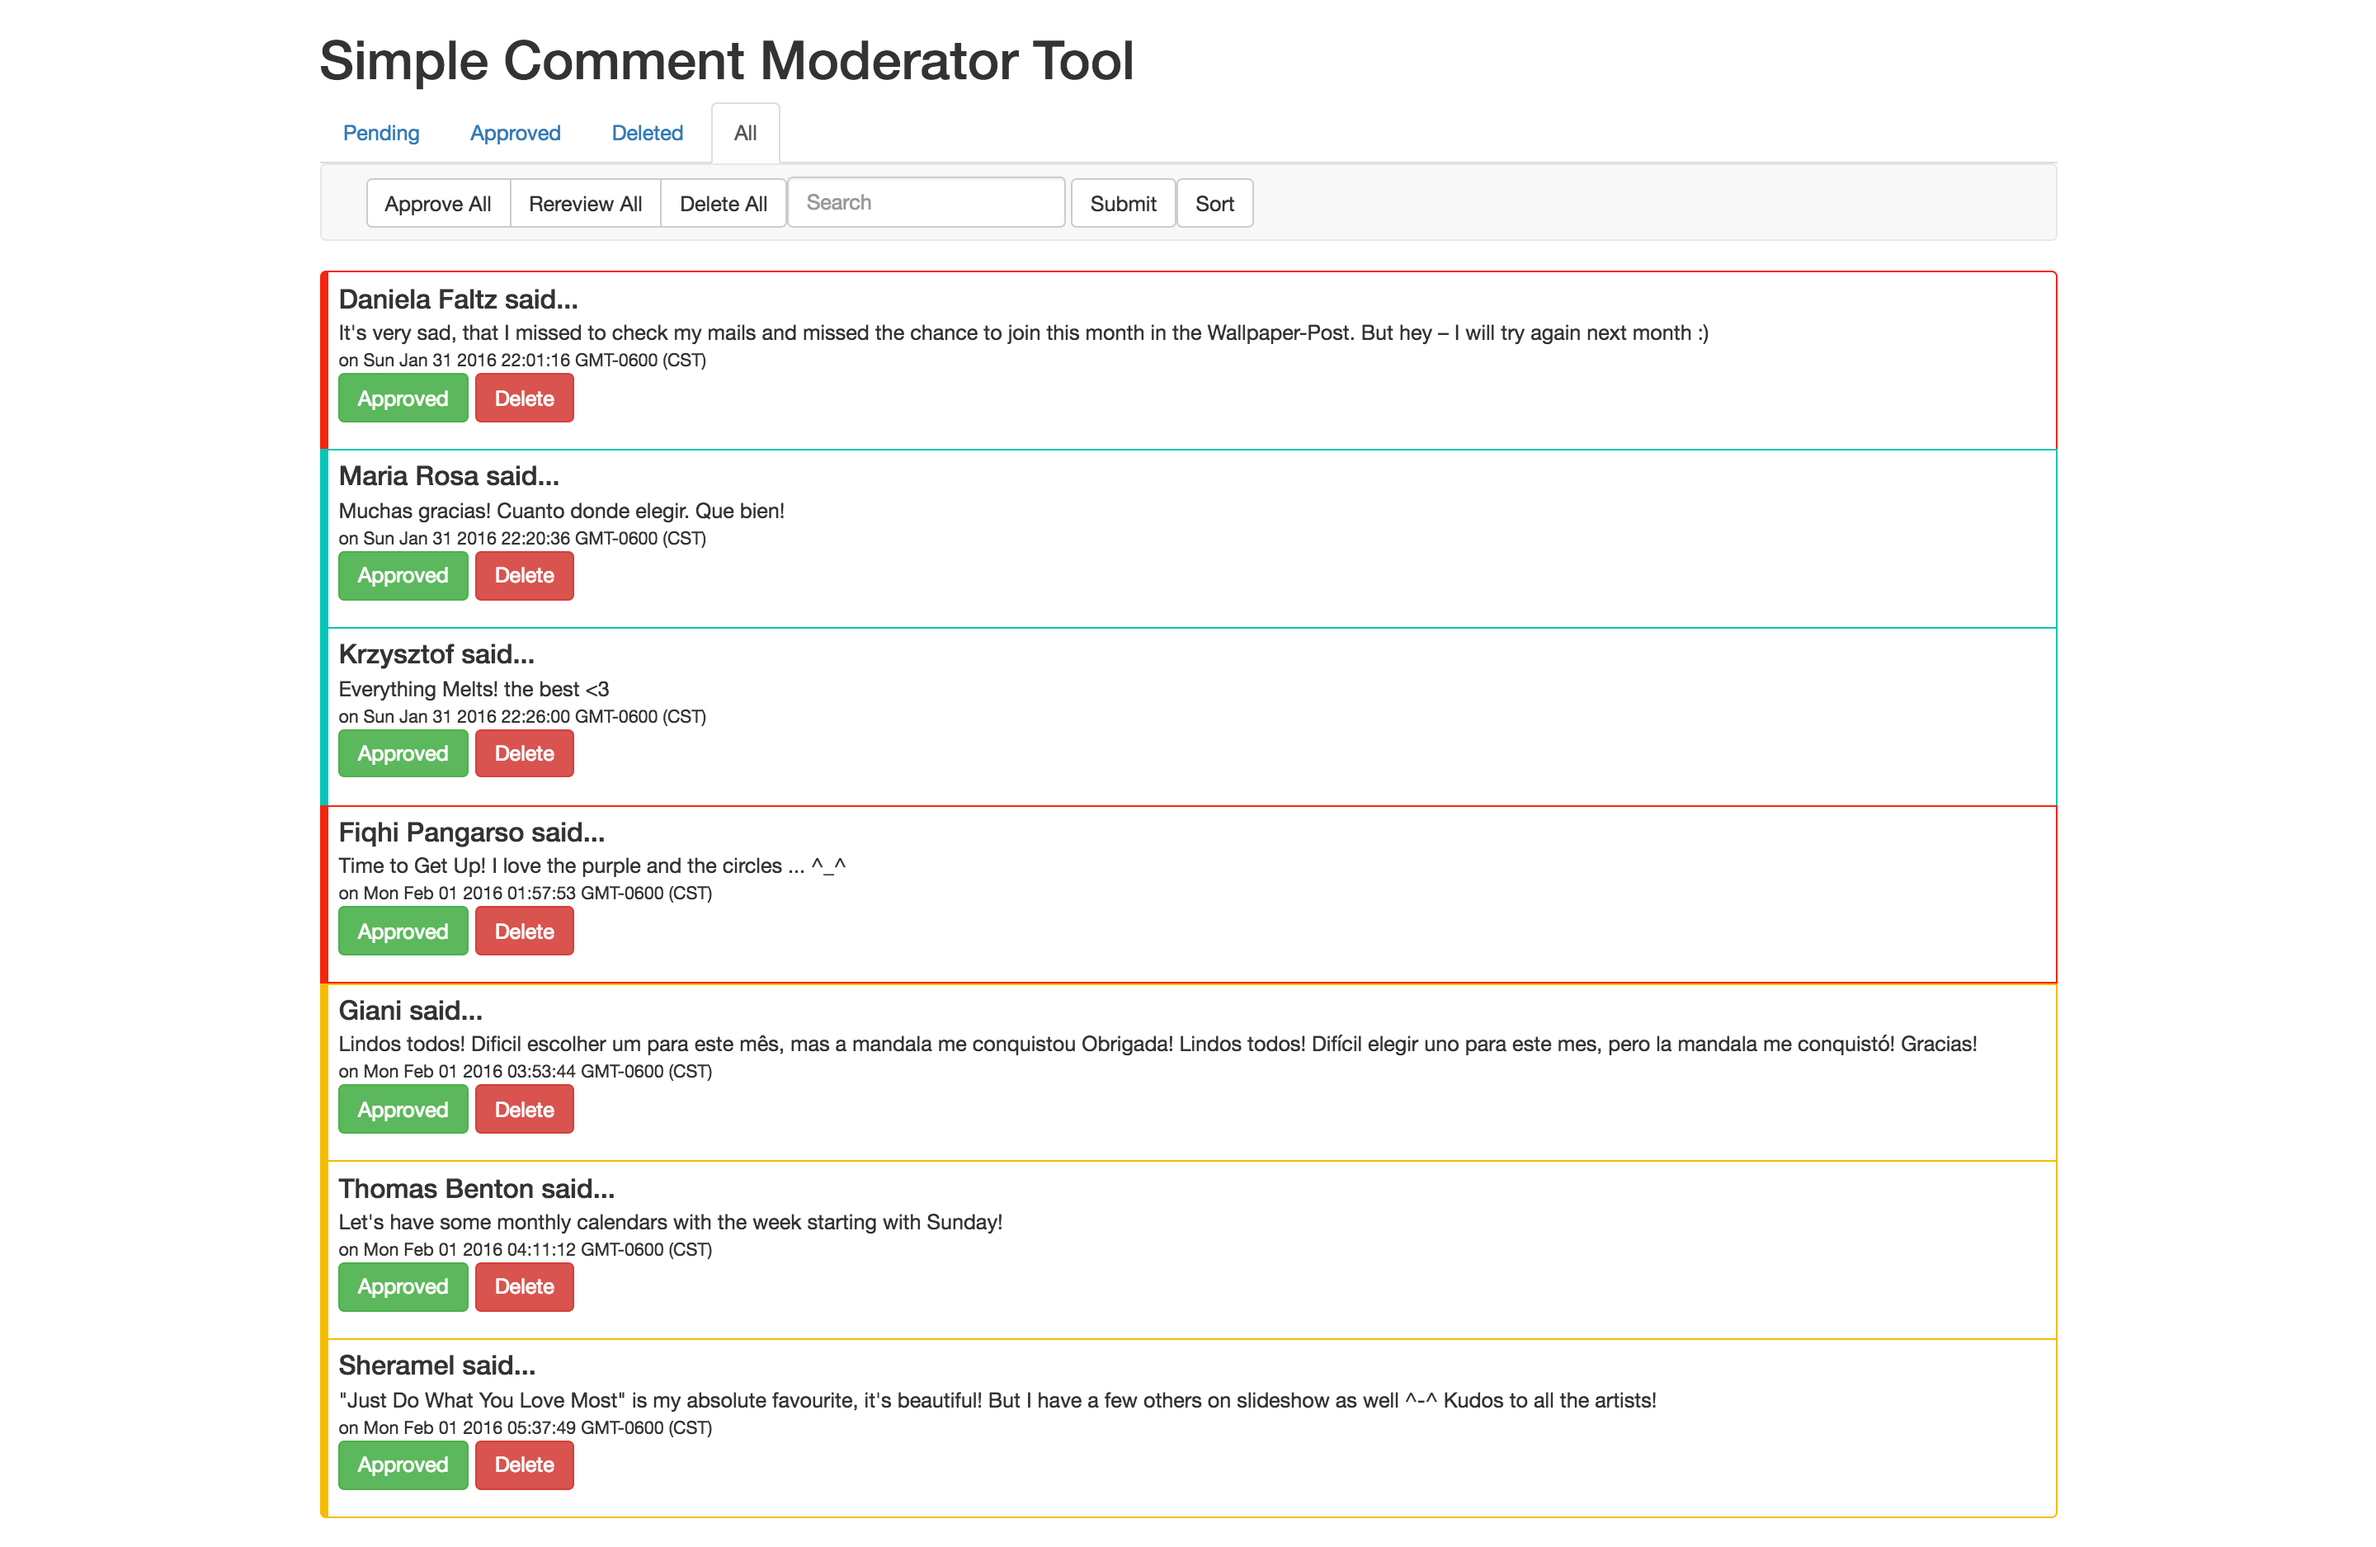
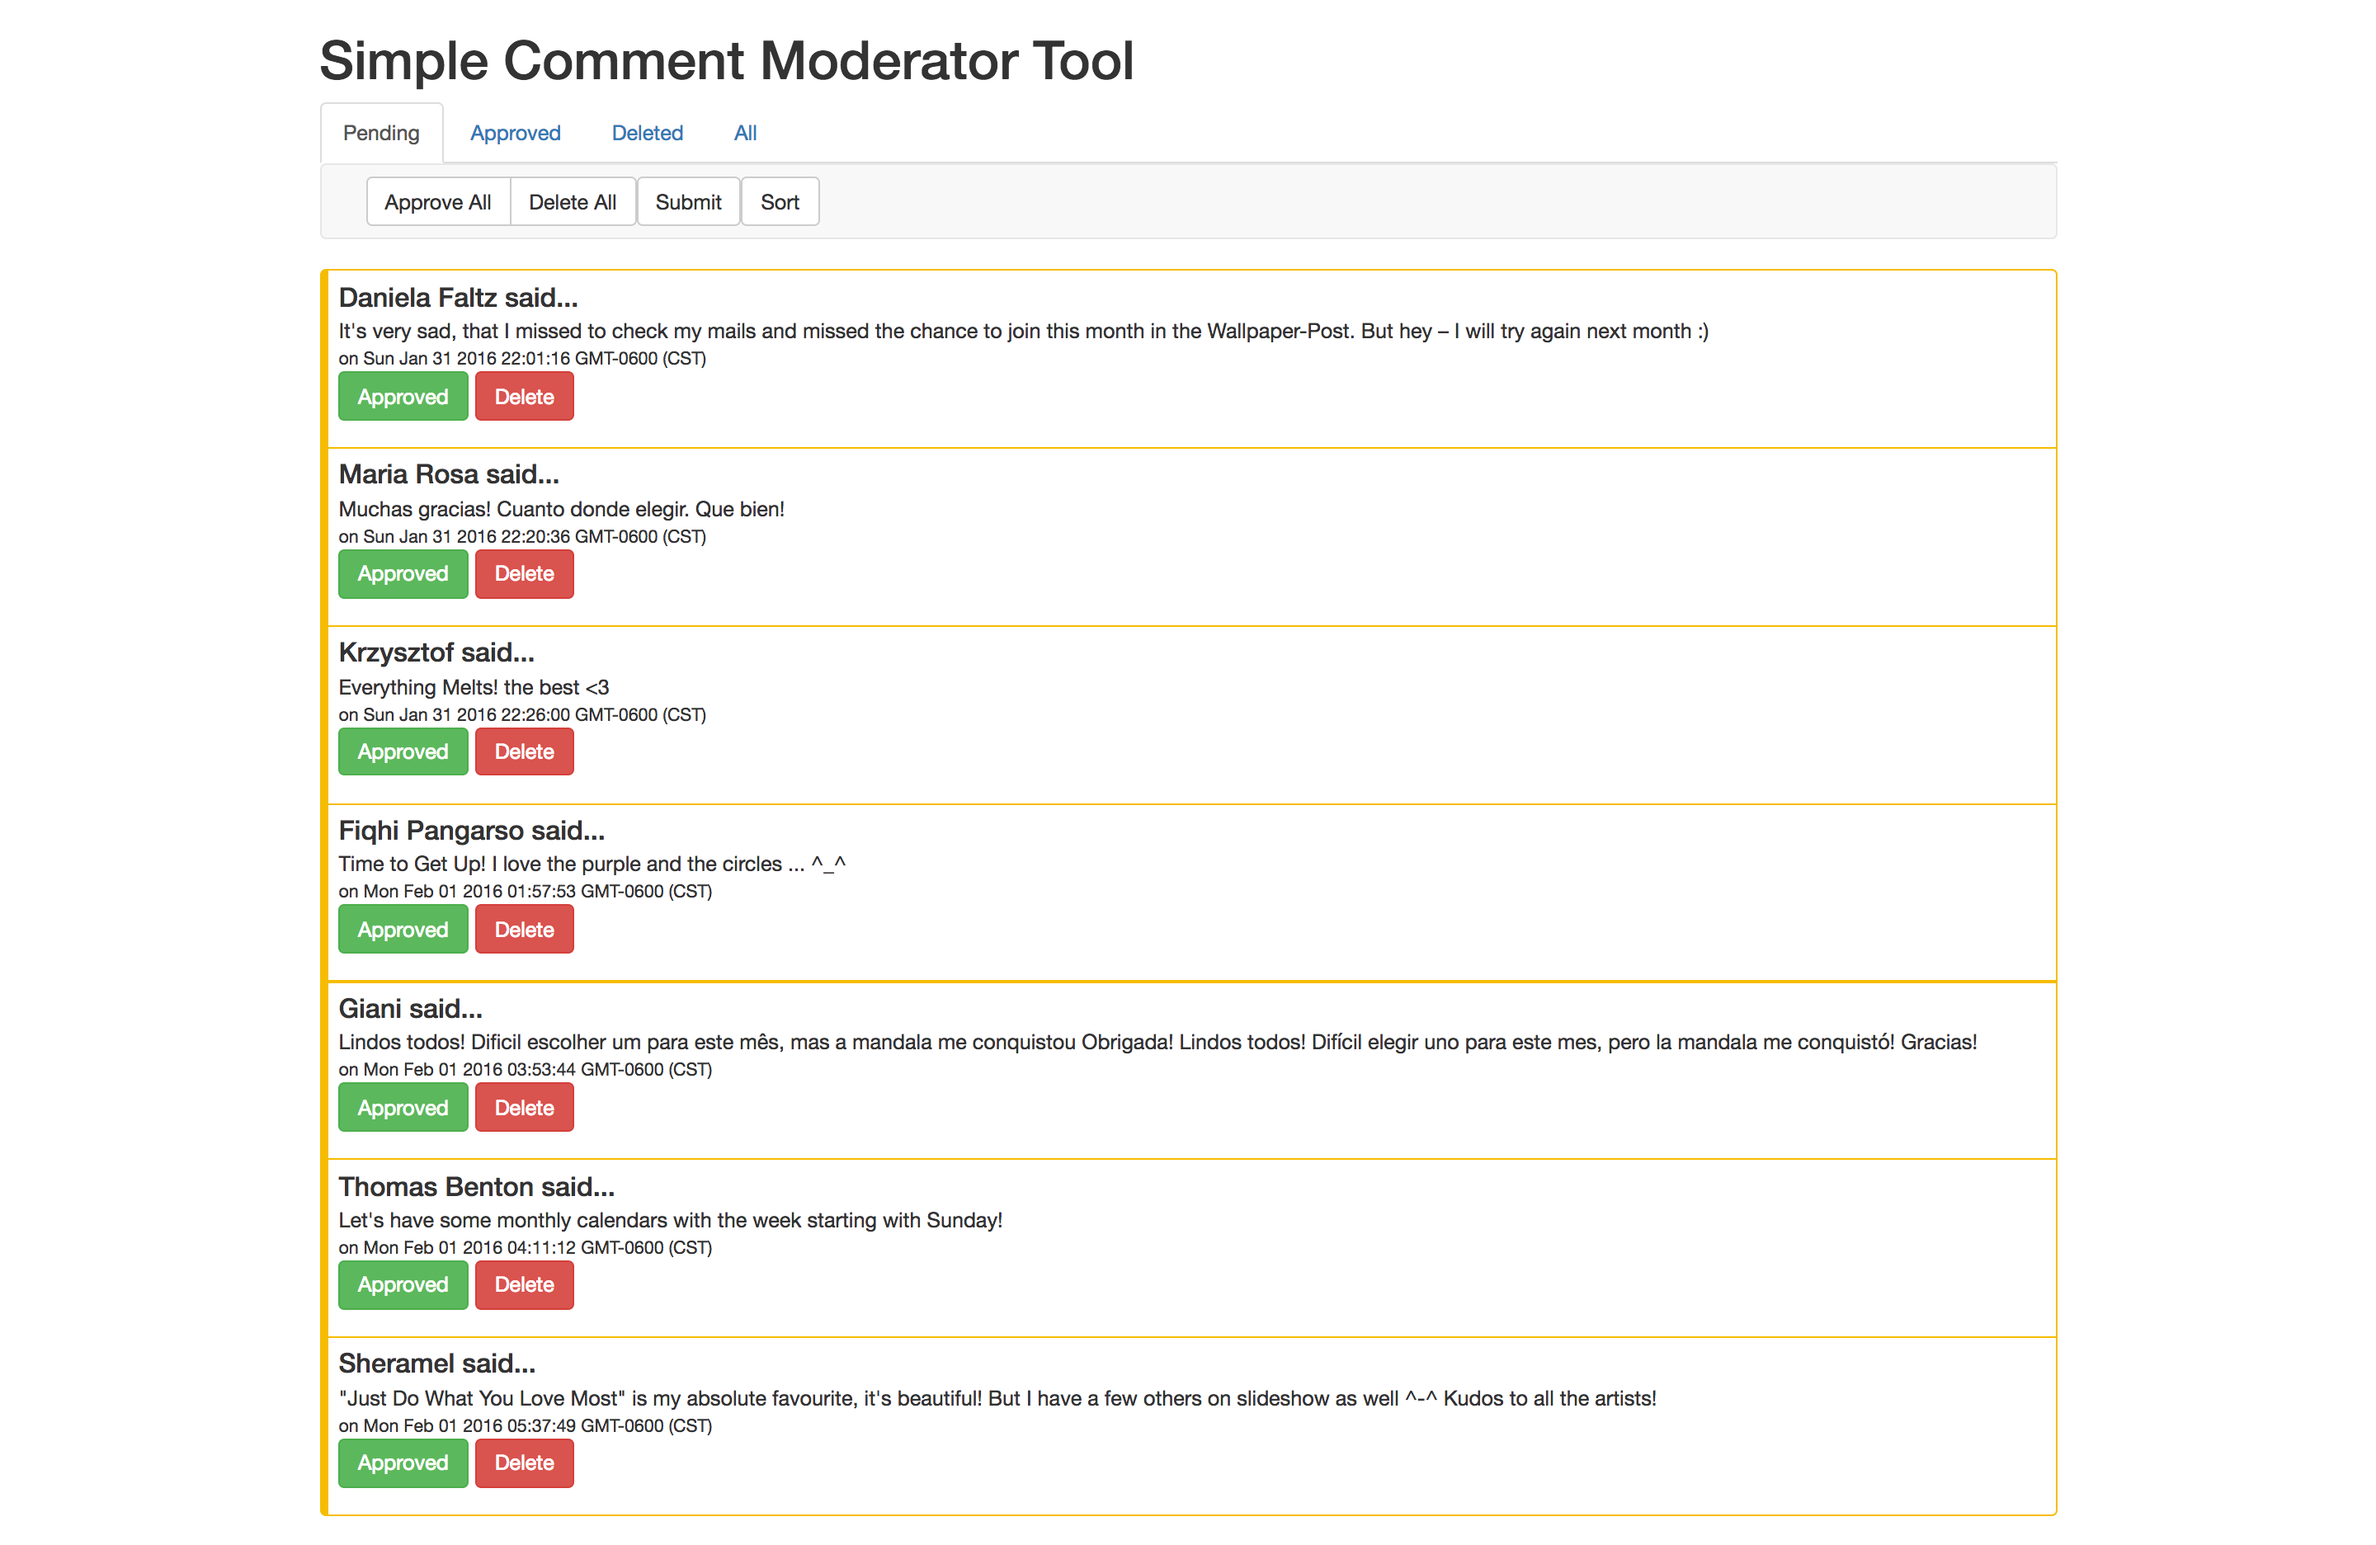
Remove placeholder searchbar
It doesn't do anything, and it's taking up space atm

diff --git a/src/SimplyMod.jsx b/src/SimplyMod.jsx
@@ -114,10 +114,6 @@ class SimplyMod extends React.Component {
       <Navbar>
         <Navbar.Form>
             { buttonGroup }
-          <FormGroup>
-            <FormControl type="text" placeholder="Search" />
-          </FormGroup>
-          {' '}
           <Button type="submit">Submit</Button>
           <Button type="sort" onClick={() => this.sortComments(this.state.comments)}>Sort</Button>
         </Navbar.Form>
